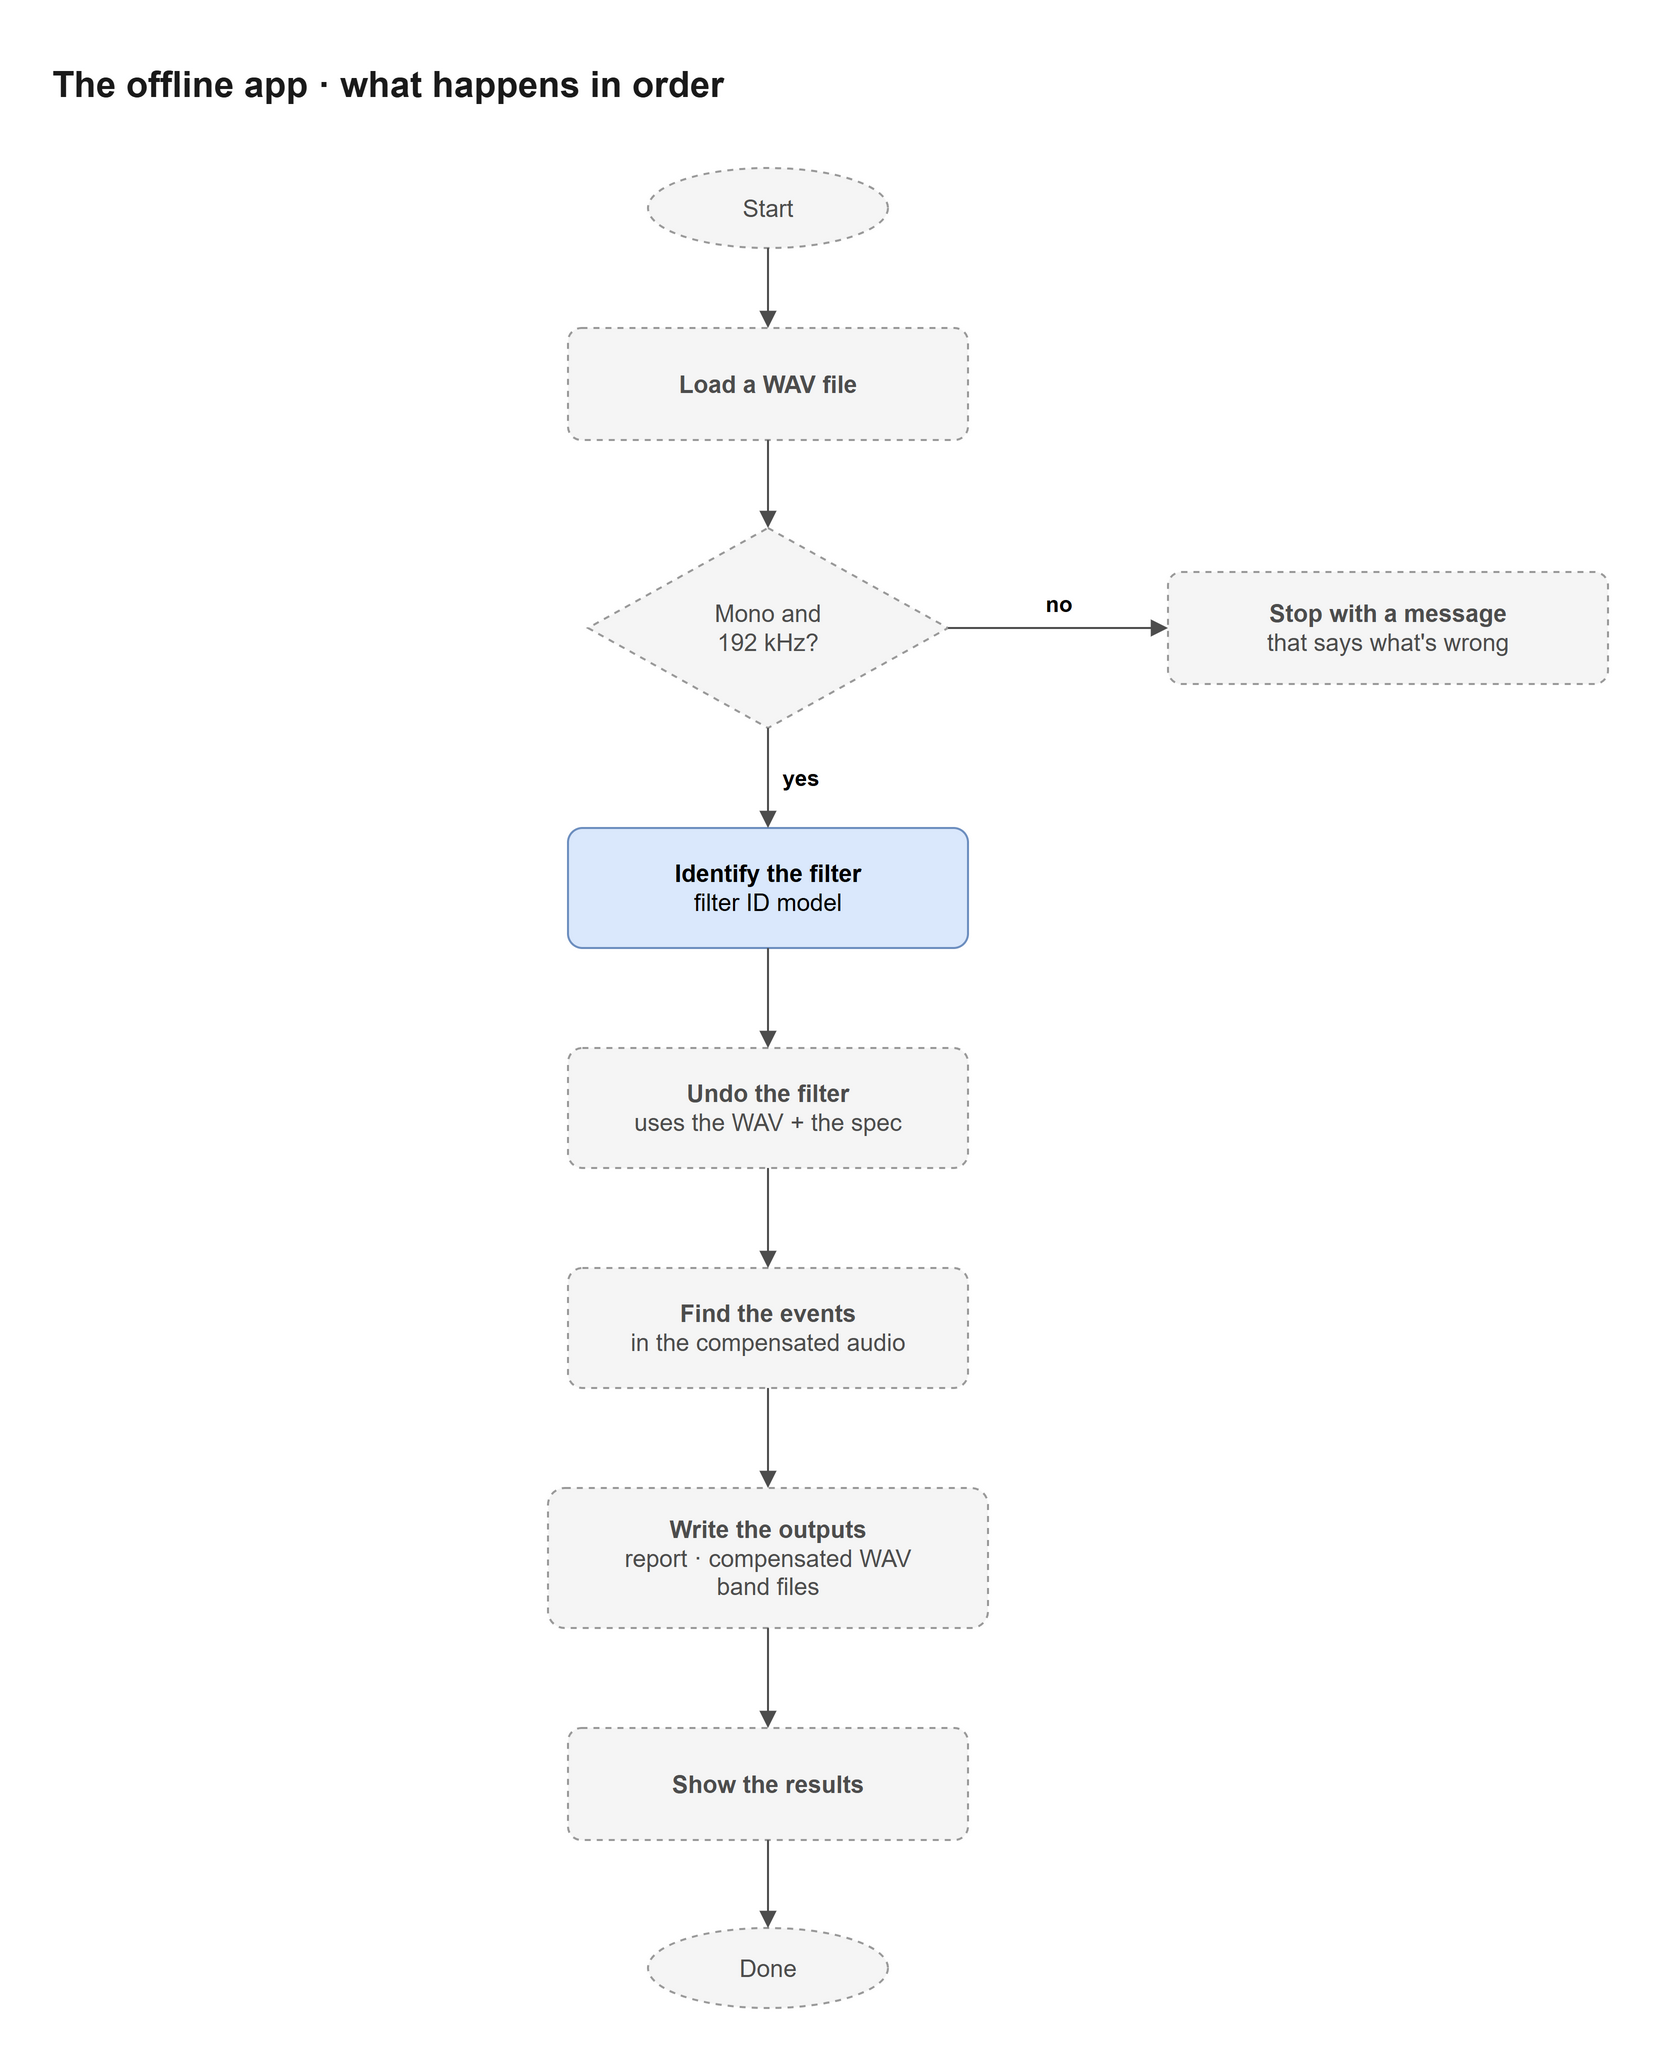
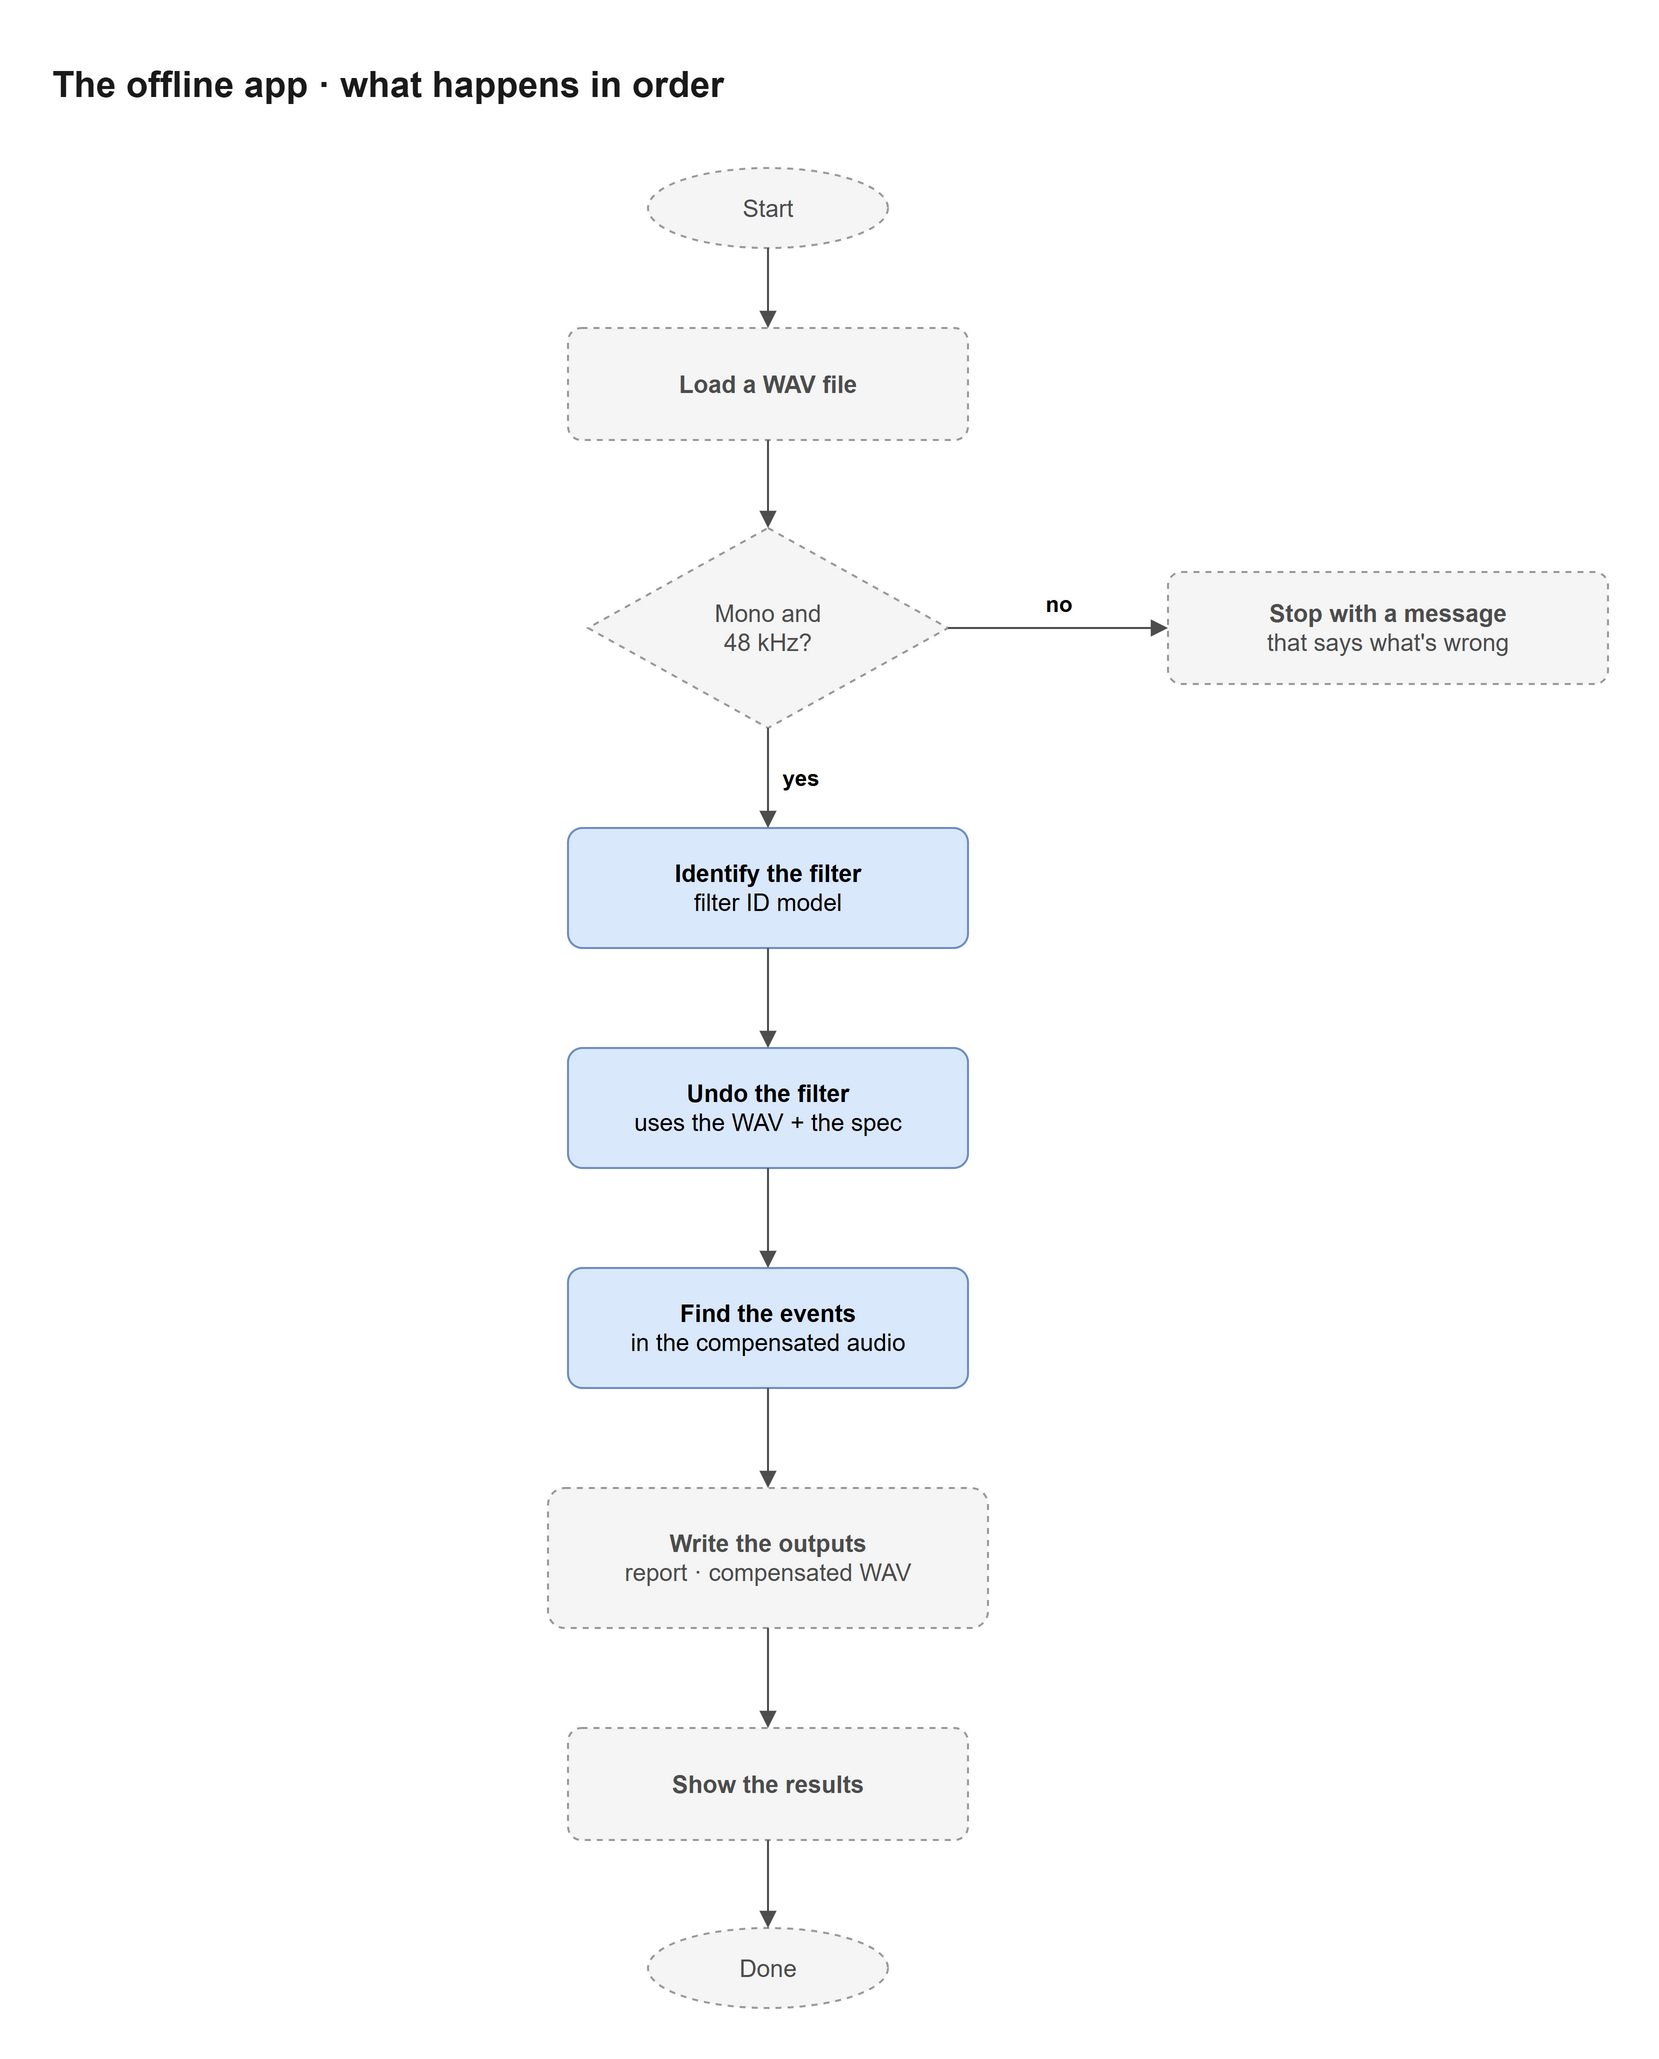
Bring the project map up to date with the built pipeline
Tabs 1 to 6 and their walkthroughs now show what is built: 48 kHz and
16-bit, 65 speech recordings with 13 speakers held out, test data made in
Python with generated events, the Python copy of the C inverse, the event
model with 7 types and optional PANNs, and the 4-version comparison. The app
steps that still wait on pipeline/app.py stay dashed. Tab 1 gets one new
dashed arrow, from the test data generators to the event model.

Tab 7 (MicroBlaze) is unchanged. Its 192 kHz is the board's ADC, which this
change does not touch.

Checks: the six PNGs were re-exported from the .drawio at scale 2 and
border 24, came out the same size as the old ones, and were looked at one by
one. No code changed since the last full pytest run (205 passed, 15 failed:
the 14 blank-app tests and the alarm development test, as before).

Changed region(s): [[0.3382, 0.4973, 0.5841, 0.6838], [0.3689, 0.7149, 0.5533, 0.7771], [0.4611, 0.3108, 0.4919, 0.3419]]

diff --git a/docs/project-map/README.md b/docs/project-map/README.md
@@ -6,37 +6,37 @@ Blue is built code, orange is a file or data, purple is hardware, and a dashed b
 
 ![The whole project](1-whole-project.png)
 
-The dashed arrow from the test data generator is training, done ahead of time. The dashed arrow down to the MicroBlaze is a board-sized version of the filter ID model, made and exported on the PC (tab 7). The board runs C, so it gets its own version of the feature steps.
+The dashed arrows from the test data generators are training, done ahead of time. Each model has its own generator, and both filter and add noise in Python. The parts inside the offline app are built, but the app that runs them in order is still a spec in `pipeline/app.py` (tab 5). The dashed arrow down to the MicroBlaze is a board-sized version of the filter ID model, made and exported on the PC (tab 7). The board runs C, so it gets its own version of the feature steps.
 
 ## 2. Making the test data
 
 ![Making the test data](2-making-the-test-data.png)
 
-The C code in `pipeline/reversable_filters/` does the filtering, so the generator script only picks the settings, runs `./filter` on each clip, and writes the record. The noise in the team's recordings was added outside the repo, so those files are the noise-before-the-filter case. The after-filter runs still need noise added after `./filter`, since that comparison is in the proposal. `./filter` counts the order on each side, so the record's band-pass order is twice what gets passed in. The event label times shift to match where the clip starts, and every part gets its labels from the record, so it has to match what really happened to the audio.
+This is the event model's test data. The filter ID model makes its own examples the same way from 1 s pieces of the same speech, with no events. Every event is generated, none is recorded, so the labels are exact. Each filter gets two cases with the same noise, one with it added before the filter and one after. `filters.py` counts a band-pass order as the total for both sides, so it's twice what the C code's `./filter` takes. The C code's own filter options (1, 2, 3) aren't used here. Every part gets its labels from the record, so it has to match what really happened to the audio.
 
 ## 3. Undoing the filter
 
 ![Undoing the filter](3-undoing-the-filter.png)
 
-The predicted spec is the real system. The true filter is a reference, and comparing the two shows how much the filter ID model's mistakes cost. Both go through the same `./filter` command, so the app has to turn a spec into its arguments, with the band-pass order halved since the C code counts each side. The λ in the inverse caps the boost, because a straight inverse would boost the noise too, and anything pushed below the noise floor can't come back. The C code doesn't split out the recovered bands yet.
+The predicted spec is the real system. The true filter is a reference, and comparing the two shows how much the filter ID model's mistakes cost. The Python copy does the same math as the C code, and it's what runs when `./filter` isn't built. The C code reads and writes 16-bit WAVs, so anything the undo pushes past full scale gets clipped, while the Python copy keeps it. The λ in the inverse caps the boost, because a straight inverse would boost the noise too, and anything pushed below the noise floor can't come back. Nothing splits out the recovered bands yet.
 
 ## 4. Finding the events
 
 ![Finding the events](4-finding-the-events.png)
 
-The dashed arrow is the event model learning from the event labels ahead of time.
+The dashed arrow is the event model learning from the event labels ahead of time. It trains on clean clips, and the settings can add filtered and undone clips. PANNs CNN14 is a pretrained sound model that can add its 527 sound probabilities to our features. It's off by default.
 
 ## 5. The offline app
 
 ![The offline app](5-offline-app.png)
 
-The app has to hold on to things between steps. Undoing the filter needs the original WAV and the spec, and the outputs need the predicted filter, the events, and the compensated audio.
+The three blue steps call code that's built. The dashed steps are the app itself, which is still a spec in `pipeline/app.py` with its tests in `pipeline/tests/test_app.py`. The app has to hold on to things between steps. Undoing the filter needs the original WAV and the spec, and the outputs need the predicted filter, the events, and the compensated audio.
 
 ## 6. Measuring results
 
 ![Measuring results](6-measuring-results.png)
 
-The known filter and the clean clip are references to compare against, and the test data only uses recordings that no model trained on. If undoing the filter doesn't improve detection, that's still a valid result, and we report it.
+The known filter and the clean clip are references to compare against, and the test clips only use speakers that no model trained on. Every version of a clip goes through the same event model with the same thresholds. If undoing the filter doesn't improve detection, that's still a valid result, and we report it.
 
 ## 7. MicroBlaze
 
